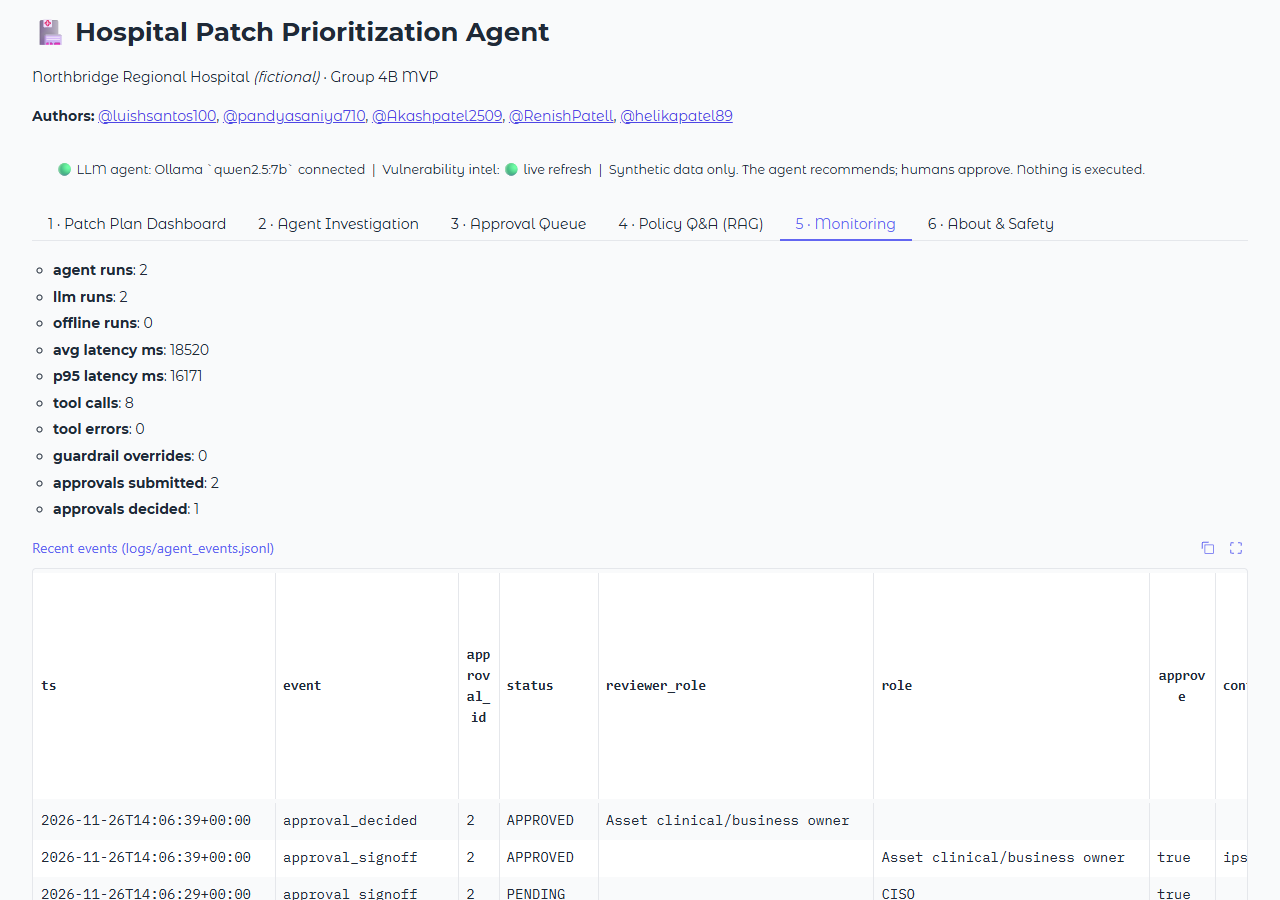
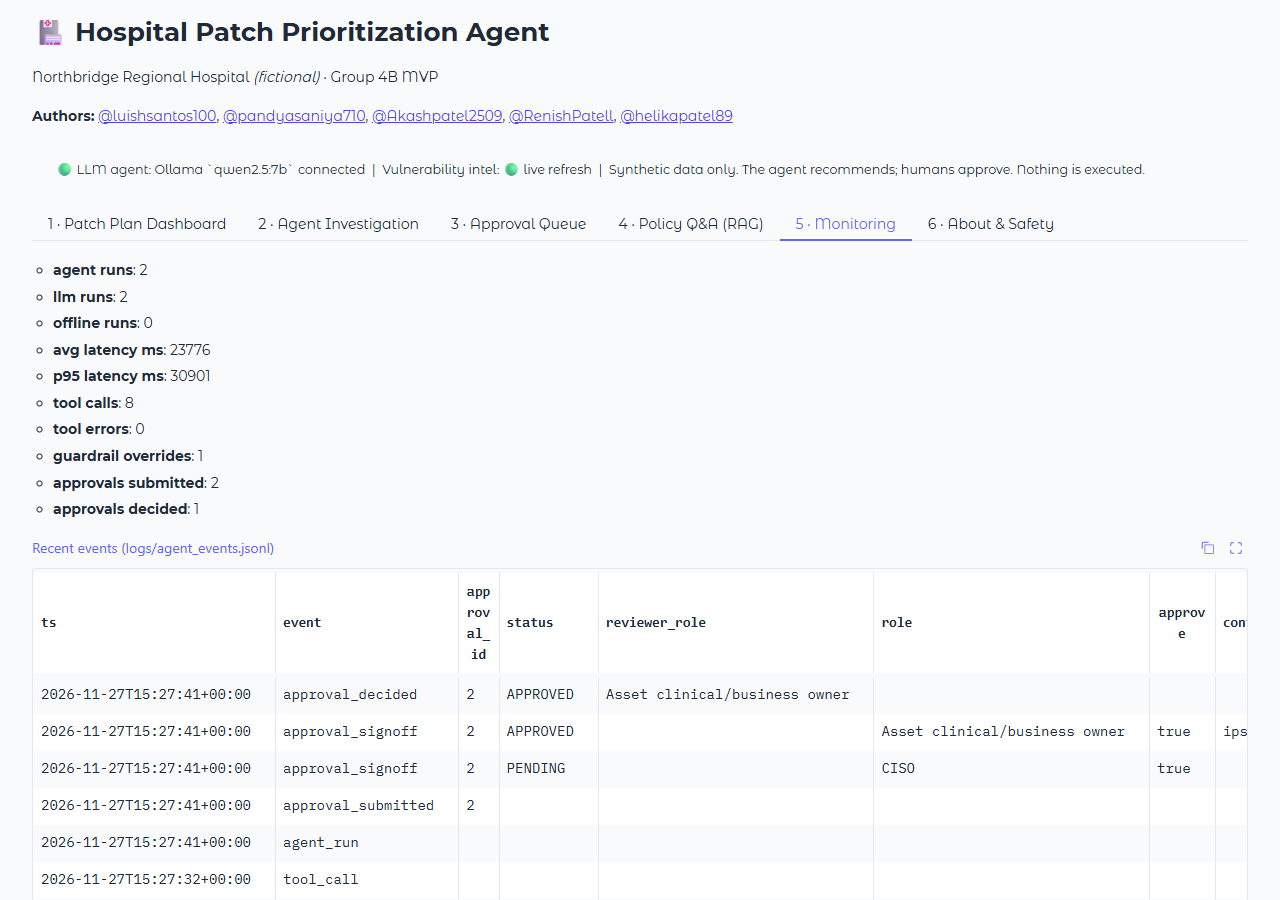
Fix p95 latency on the Monitoring tab
The percentile index was rounded down, so with two runs p95 showed the faster
one and could read lower than the average. Use the nearest-rank method, which
gives the slowest run when there are few. Retake the monitoring screenshot,
which showed the wrong value.

diff --git a/app/monitoring.py b/app/monitoring.py
@@ -1,6 +1,7 @@
 """Lightweight monitoring: every agent run, tool call, error and approval is appended to a
 JSONL event log. No secrets or free-text analyst notes beyond 200 chars are stored."""
 import json
+import math
 import time
 from datetime import datetime, timezone
 
@@ -35,7 +36,8 @@ def summary() -> dict:
         "llm_runs": sum(1 for e in runs if e.get("mode") == "llm"),
         "offline_runs": sum(1 for e in runs if e.get("mode") == "offline"),
         "avg_latency_ms": round(sum(lat) / len(lat)) if lat else 0,
-        "p95_latency_ms": sorted(lat)[int(0.95 * (len(lat) - 1))] if lat else 0,
+        # nearest-rank percentile: with few runs this is the slowest one (never below the median)
+        "p95_latency_ms": sorted(lat)[math.ceil(0.95 * len(lat)) - 1] if lat else 0,
         "tool_calls": len(tools),
         "tool_errors": sum(1 for e in tools if not e.get("ok", True)),
         "guardrail_overrides": sum(len(e.get("guardrail_flags", [])) for e in runs),
